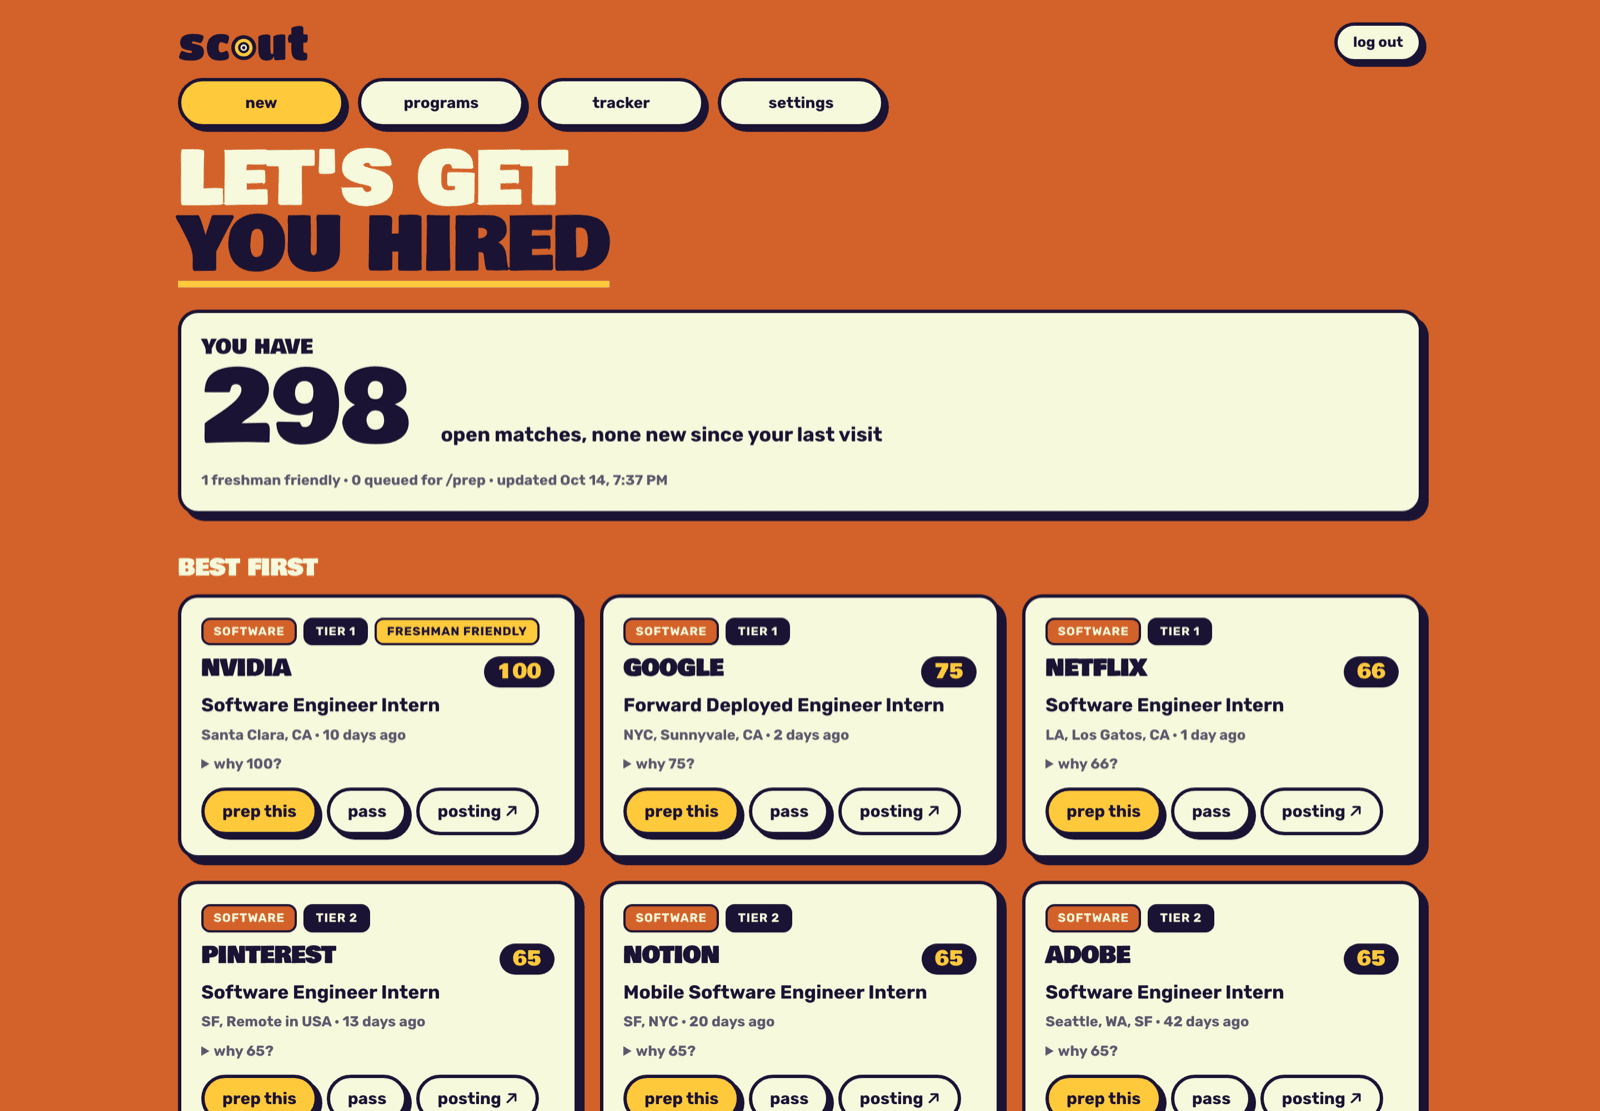
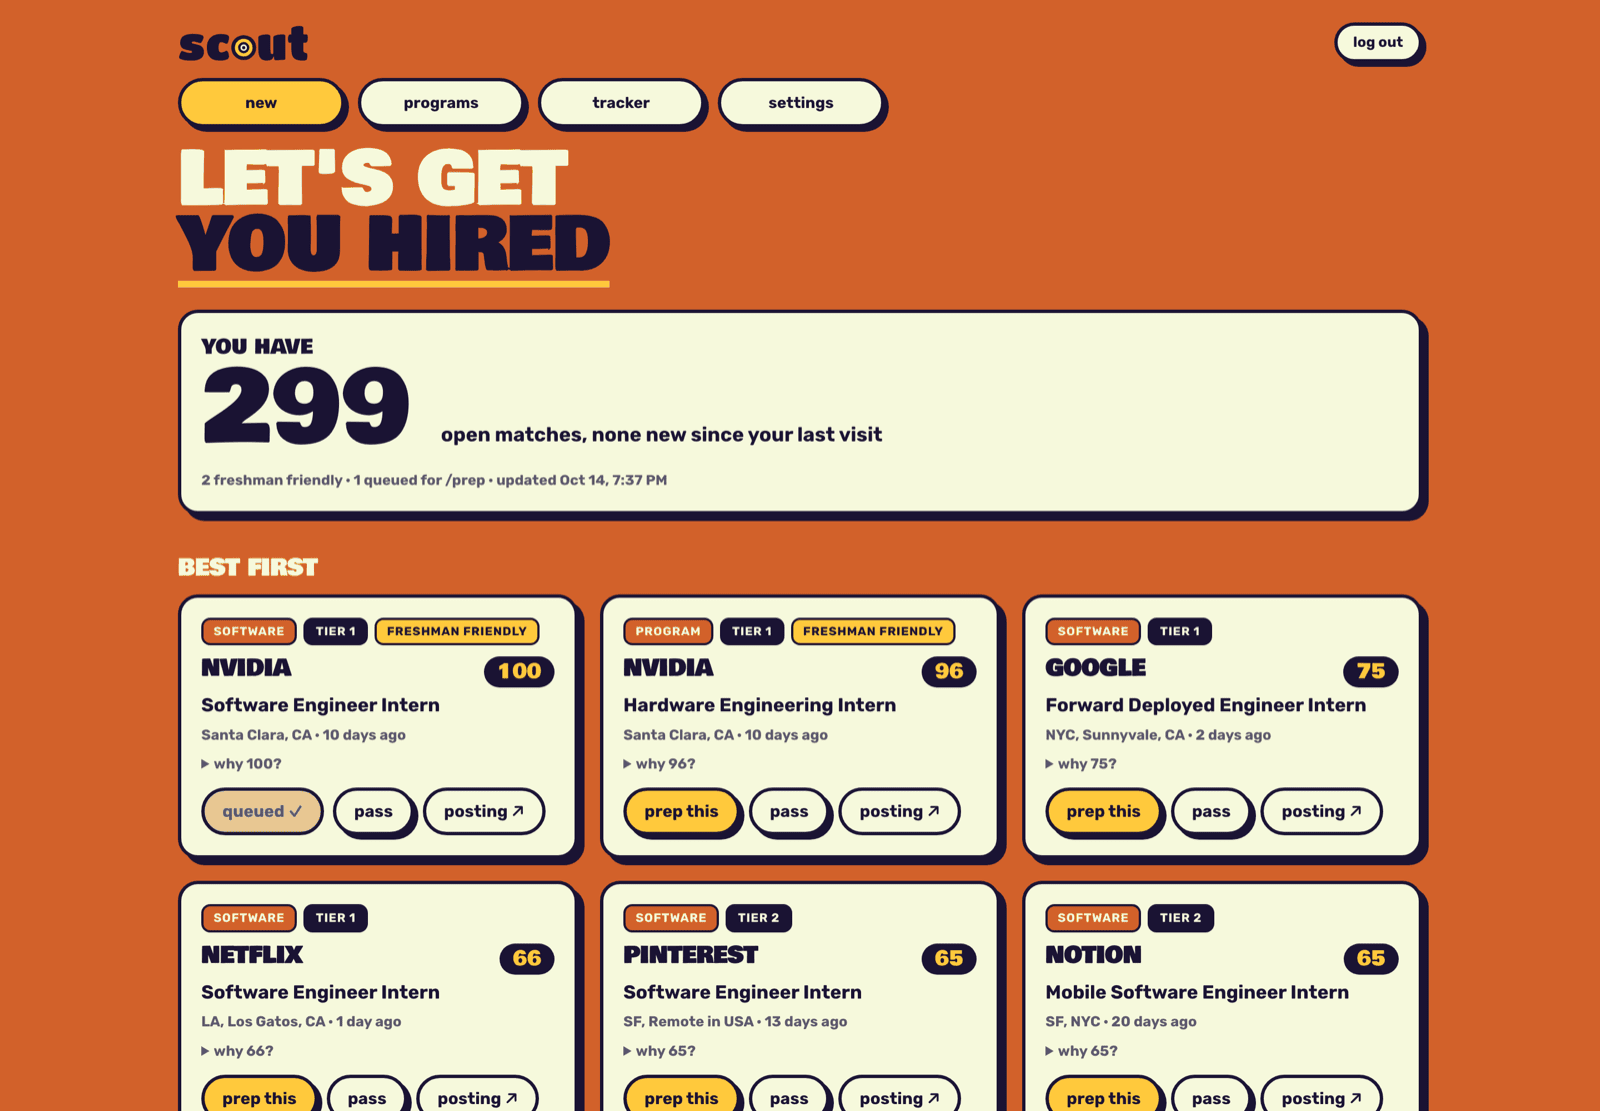
Dashboard fixes: pass counts stay in sync, tracker refreshes after save, New York dates, centered login, shorter queued label; exclude electronics engineering roles; new screenshots

diff --git a/worker/src/index.js b/worker/src/index.js
@@ -128,7 +128,7 @@ async function setTracker(request, env) {
   if (!key || !STATES.includes(state)) return json({ error: "need key and a known state" }, 400);
   const [tracker, data] = await Promise.all([get(env, "tracker", {}), get(env, "matches", { matches: [] })]);
   const match = data.matches.find((m) => m.key === key) || {};
-  const today = new Date().toISOString().slice(0, 10);
+  const today = nyDate();
   const row = tracker[key] || { company: match.company || "", title: match.title || "", url: match.url || "", score: match.score ?? null, history: [] };
   row.state = state;
   row.updated = today;
@@ -186,7 +186,7 @@ async function newPage(env) {
       <div class="meta">${esc((m.locations || []).slice(0, 2).join(", ") || "location not listed")} · ${age(m.date_posted)}${m.eligibility_note && m.eligibility !== "unknown" ? " · " + esc(m.eligibility_note) : ""}</div>
       <details class="why"><summary>why ${m.score}?</summary><div class="meta mono">${esc(breakdown(m))}</div></details>
       <div class="actions">
-        <button class="btn accent" data-act="queue" ${queued.has(m.key) ? "disabled" : ""}>${queued.has(m.key) ? "queued for /prep" : "prep this"}</button>
+        <button class="btn accent" data-act="queue" ${queued.has(m.key) ? "disabled" : ""}>${queued.has(m.key) ? "queued ✓" : "prep this"}</button>
         <button class="btn" data-act="pass">pass</button>
         <a class="btn ghost" href="${esc(m.url)}" target="_blank" rel="noopener">posting ↗</a>
       </div>
@@ -195,7 +195,7 @@ async function newPage(env) {
   const hero = `
     <div class="stat">
       <div class="stat-label">you have</div>
-      <div class="stat-big">${rows.length}</div>
+      <div class="stat-big" id="open-count">${rows.length}</div>
       <div class="stat-sub">open matches${fresh.length ? `, <b>${fresh.length} new</b> since your last visit` : ", none new since your last visit"}</div>
       <div class="stat-foot">${programs} freshman friendly · ${queue.length} queued for /prep · updated ${esc(when(data.generated_at))}</div>
     </div>`;
@@ -215,7 +215,7 @@ async function newPage(env) {
     ${fresh.length ? `<h2>fresh off the lists</h2>${fresh.map((m) => card(m, true)).join("")}` : ""}
     <h2>${fresh.length ? "the rest, best first" : "best first"}</h2>
     ${rest.slice(0, 60).map((m) => card(m, false)).join("") || '<p class="note">nothing yet. the cron fills this in every three hours.</p>'}
-    ${passedRows.length ? `<details class="passed-list"><summary><h2>passed (${passedRows.length})</h2></summary><p class="note">changed your mind? unpass puts it back in the list.</p>${passedRows.map(passedCard).join("")}</details>` : ""}`;
+    <details class="passed-list" id="passed" ${passedRows.length ? "" : "hidden"}><summary><h2>passed (<span id="passed-count">${passedRows.length}</span>)</h2></summary><p class="note">changed your mind? unpass puts it back in the list.</p><div id="passed-cards">${passedRows.map(passedCard).join("")}</div></details>`;
   return page(body, { title: "New", page: "new", lead: "let's get", head: "you hired" });
 }
 
@@ -350,6 +350,7 @@ input{flex:1;min-width:150px}
 .pipeline{display:flex;gap:6px;flex-wrap:wrap;margin:0 0 14px}
 .step{font-size:12px;font-weight:700;background:var(--cream);border:2px solid var(--ink);border-radius:var(--radius-pill);padding:5px 10px;color:var(--muted)} .step.on{color:var(--ink);background:var(--accent)} .step b{margin-left:6px}
 pre{white-space:pre-wrap;overflow-wrap:anywhere;background:var(--cream);border:var(--line) solid var(--ink);border-radius:var(--radius);box-shadow:var(--shadow);padding:var(--pad);font-size:var(--small);font-weight:500}
+body[data-page="login"] main,body[data-page="login"] header{max-width:420px} body[data-page="login"] header{justify-content:center} body[data-page="login"] main{display:block} body[data-page="login"] h1{text-align:center} body[data-page="login"] h1 .head{display:inline-block}
 .login{display:flex;flex-direction:column;gap:12px;max-width:360px;margin:10px auto 0;background:var(--cream);border:var(--line) solid var(--ink);border-radius:var(--radius);box-shadow:var(--shadow);padding:22px}
 .login label{font-family:var(--display);text-transform:uppercase;font-size:18px} .login input{width:100%} .login .note{color:var(--muted);margin:0} .warn{color:var(--red);font-weight:700;margin:0}
 .dock{position:fixed;left:0;right:0;bottom:0;display:flex;justify-content:center;gap:8px;padding:10px 12px calc(10px + env(safe-area-inset-bottom));background:var(--page);border-top:var(--line) solid var(--ink)}
@@ -373,14 +374,35 @@ pre{white-space:pre-wrap;overflow-wrap:anywhere;background:var(--cream);border:v
 // The only JavaScript the pages need: send a tap to the API and update the card in place.
 const CLIENT_JS = `
 async function post(url, body){const r=await fetch(url,{method:"POST",headers:{"Content-Type":"application/json"},body:JSON.stringify(body)});if(!r.ok){alert("that didn't save. try again.");throw new Error(r.status)}return r.json()}
-document.addEventListener("click",async(e)=>{const b=e.target.closest("button[data-act]");if(!b)return;const card=b.closest("[data-key]");const key=card&&card.dataset.key;if(!key)return;
- if(b.dataset.act==="queue"){await post("/api/queue",{key});b.textContent="queued for /prep";b.disabled=true}
- else if(b.dataset.act==="pass"){await post("/api/pass",{key});card.classList.add("dim");b.textContent="undo";b.dataset.act="unpass"}
- else if(b.dataset.act==="unpass"){await post("/api/pass",{key,undo:true});if(card.classList.contains("passed")){card.remove();return}card.classList.remove("dim");b.textContent="pass";b.dataset.act="pass"}
- else if(b.dataset.act==="save"){const state=card.querySelector('[data-act="state"]').value;const next=card.querySelector('[data-act="next"]').value;await post("/api/tracker",{key,state,next});b.textContent="saved";setTimeout(()=>b.textContent="save",1500)}
+function bump(id,d){const el=document.getElementById(id);if(el)el.textContent=Math.max(0,(parseInt(el.textContent,10)||0)+d)}
+function syncPassed(){const box=document.getElementById("passed");const n=parseInt((document.getElementById("passed-count")||{}).textContent,10)||0;if(box){box.hidden=n===0;if(n===0)box.open=false}}
+function passedClone(card,key){const a=document.createElement("article");a.className="card passed";a.dataset.key=key;a.dataset.origin="main";
+ const row=document.createElement("div");row.className="row";const h=document.createElement("h3");h.textContent=(card.querySelector("h3")||{}).textContent||"";const sc=document.createElement("span");sc.className="score";sc.textContent=(card.querySelector(".score")||{}).textContent||"";row.append(h,sc);
+ const t=document.createElement("div");t.className="title";t.textContent=(card.querySelector(".title")||{}).textContent||"";
+ const m=document.createElement("div");m.className="meta";m.textContent="passed just now";
+ const acts=document.createElement("div");acts.className="actions";const u=document.createElement("button");u.className="btn accent";u.dataset.act="unpass";u.textContent="unpass";acts.append(u);
+ const link=card.querySelector("a.btn");if(link){const l=link.cloneNode(true);acts.append(l)}
+ a.append(row,t,m,acts);return a}
+function mainCard(key){return [...document.querySelectorAll("main > .card[data-key]")].find(c=>c.dataset.key===key)}
+function clonesFor(key){return [...document.querySelectorAll("#passed-cards .card")].filter(c=>c.dataset.key===key)}
+document.addEventListener("click",async(e)=>{const b=e.target.closest("button[data-act]");if(!b||b.disabled)return;const card=b.closest("[data-key]");const key=card&&card.dataset.key;if(!key)return;b.disabled=true;
+ try{
+ if(b.dataset.act==="queue"){await post("/api/queue",{key});b.textContent="queued ✓";return}
+ if(b.dataset.act==="pass"){await post("/api/pass",{key});card.classList.add("dim");b.textContent="undo";b.dataset.act="unpass";bump("open-count",-1);bump("passed-count",1);const box=document.getElementById("passed-cards");if(box)box.prepend(passedClone(card,key));syncPassed()}
+ else if(b.dataset.act==="unpass"){await post("/api/pass",{key,undo:true});bump("passed-count",-1);bump("open-count",1);
+  if(card.classList.contains("passed")){clonesFor(key).forEach(c=>c.remove());card.remove();const mc=mainCard(key);if(mc){mc.classList.remove("dim");const pb=mc.querySelector('button[data-act="unpass"]');if(pb){pb.textContent="pass";pb.dataset.act="pass"}}else{syncPassed();location.reload();return}}
+  else{card.classList.remove("dim");b.textContent="pass";b.dataset.act="pass";clonesFor(key).forEach(c=>c.remove())}
+  syncPassed()}
+ else if(b.dataset.act==="save"){const state=card.querySelector('[data-act="state"]').value;const next=card.querySelector('[data-act="next"]').value;await post("/api/tracker",{key,state,next});b.textContent="saved";setTimeout(()=>location.reload(),400)}
+ }finally{b.disabled=b.dataset.act==="queue"&&b.textContent.startsWith("queued")}
 });`;
 
 /* ---------------------------------------------------------------- small helpers */
+
+// Today's date in New York (YYYY-MM-DD). The server runs in UTC, which is already tomorrow after 8 PM ET.
+function nyDate() {
+  return new Date().toLocaleDateString("en-CA", { timeZone: "America/New_York" });
+}
 
 function roleWord(m) {
   return { swe: "software", pm: "product", it: "IT", design: "design", ambassador: "ambassador", program: "program" }[m.role] || "match";

diff --git a/tests/test_matching.py b/tests/test_matching.py
@@ -65,6 +65,8 @@ class Role(unittest.TestCase):
         self.assertEqual(matching.classify_role("Business Intelligence Engineer Intern", T), "none")
         self.assertEqual(matching.classify_role("Data Engineer Intern", T), "none")
         self.assertEqual(matching.classify_role("Firmware Engineer Intern/Co-op", T), "none")
+        self.assertEqual(matching.classify_role("Electronics Engineering Intern", T), "none")
+        self.assertEqual(matching.classify_role("Consumer Electronics Software Engineer Intern", T), "swe")
         self.assertEqual(matching.classify_role("Mechanical Engineering Intern", T), "none")
         self.assertEqual(matching.classify_role("Quantitative Trading Intern", T), "none")
         self.assertEqual(matching.classify_role("Data Scientist Intern", T), "none")
